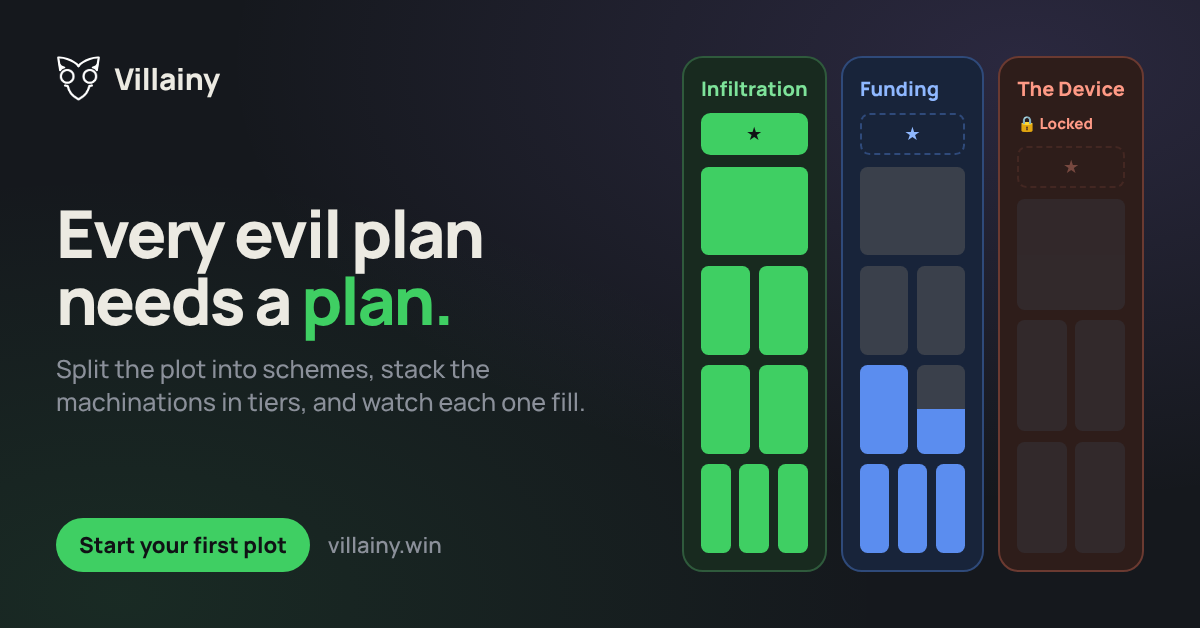
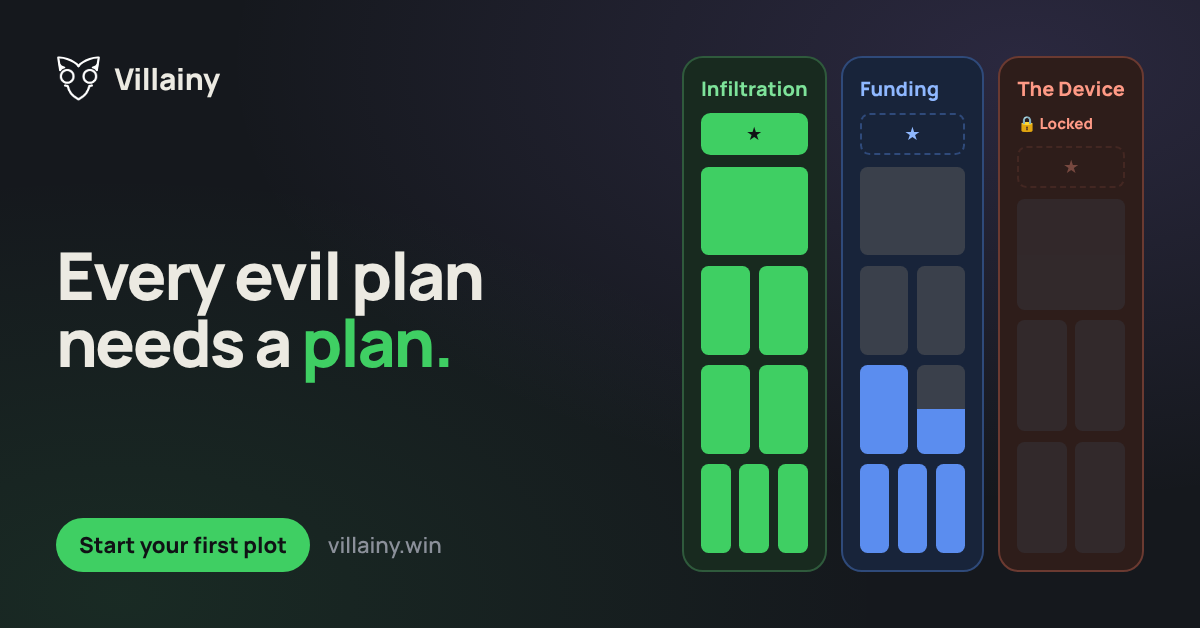
Drop subtitles and the Council seat label from the ads
Claude-Session: https://claude.ai/code/session_01KkRABeRrc1eyRtQYuYNAYR

Changed region(s): [[0.0308, 0.3328, 0.4933, 0.6656]]

diff --git a/marketing/ads/ad.html b/marketing/ads/ad.html
@@ -45,11 +45,11 @@ p{font-weight:500;font-size:var(--p);color:var(--muted);line-height:1.35;margin-
 <div class="ad" id="ad">
   <div class="copy">
     <div class="brand"><img src="logo.svg" alt="">Villainy</div>
-    <div><h1 id="h1"></h1><p id="p"></p></div>
+    <div><h1 id="h1"></h1></div>
     <div class="cta"><span class="btn">Start your first plot</span><span class="url">villainy.win</span></div>
   </div>
   <div class="tree">
-    <div class="col g"><h3>Infiltration</h3><div class="ult won">★<span class="long">&nbsp;Council seat</span></div>
+    <div class="col g"><h3>Infiltration</h3><div class="ult won">★</div>
       <div class="tiers"><div class="tier"><i class="pip f"></i><i class="pip f"></i><i class="pip f"></i></div><div class="tier"><i class="pip f"></i><i class="pip f"></i></div><div class="tier"><i class="pip f"></i><i class="pip f"></i></div><div class="tier"><i class="pip f"></i></div></div></div>
     <div class="col b"><h3>Funding</h3><div class="ult">★</div>
       <div class="tiers"><div class="tier"><i class="pip f"></i><i class="pip f"></i><i class="pip f"></i></div><div class="tier"><i class="pip f"></i><i class="pip p"></i></div><div class="tier"><i class="pip"></i><i class="pip"></i></div><div class="tier"><i class="pip"></i></div></div></div>
@@ -66,7 +66,7 @@ const ADS={
  4:["Monologue less. <em>Machinate more.</em>","Turn your sprawling master plan into a skill tree you can actually tick off."]
 };
 const [h,p]=ADS[q.get('ad')||1];
-document.getElementById('h1').innerHTML=h;document.getElementById('p').textContent=p;
+document.getElementById('h1').innerHTML=h;
 const fmt=q.get('fmt')||'sq';
 const S={
  land:{w:1200,h:628,pad:56,gap:48,brand:30,h1:66,p:25,cta:22,u:19,cg:14},

diff --git a/marketing/ads/README.md b/marketing/ads/README.md
@@ -32,7 +32,7 @@ Reddit: **Sign Up**.
 ## Editing or re-rendering
 
 `ad.html` is the template (`?ad=1..4&fmt=land|sq|tall`); the headline and
-subline for each ad are in its `ADS` object. To re-render all twelve PNGs:
+subline for each ad are in its `ADS` object (the subline is no longer drawn). To re-render all twelve PNGs:
 
 ```bash
 cd marketing/ads && node render.js
